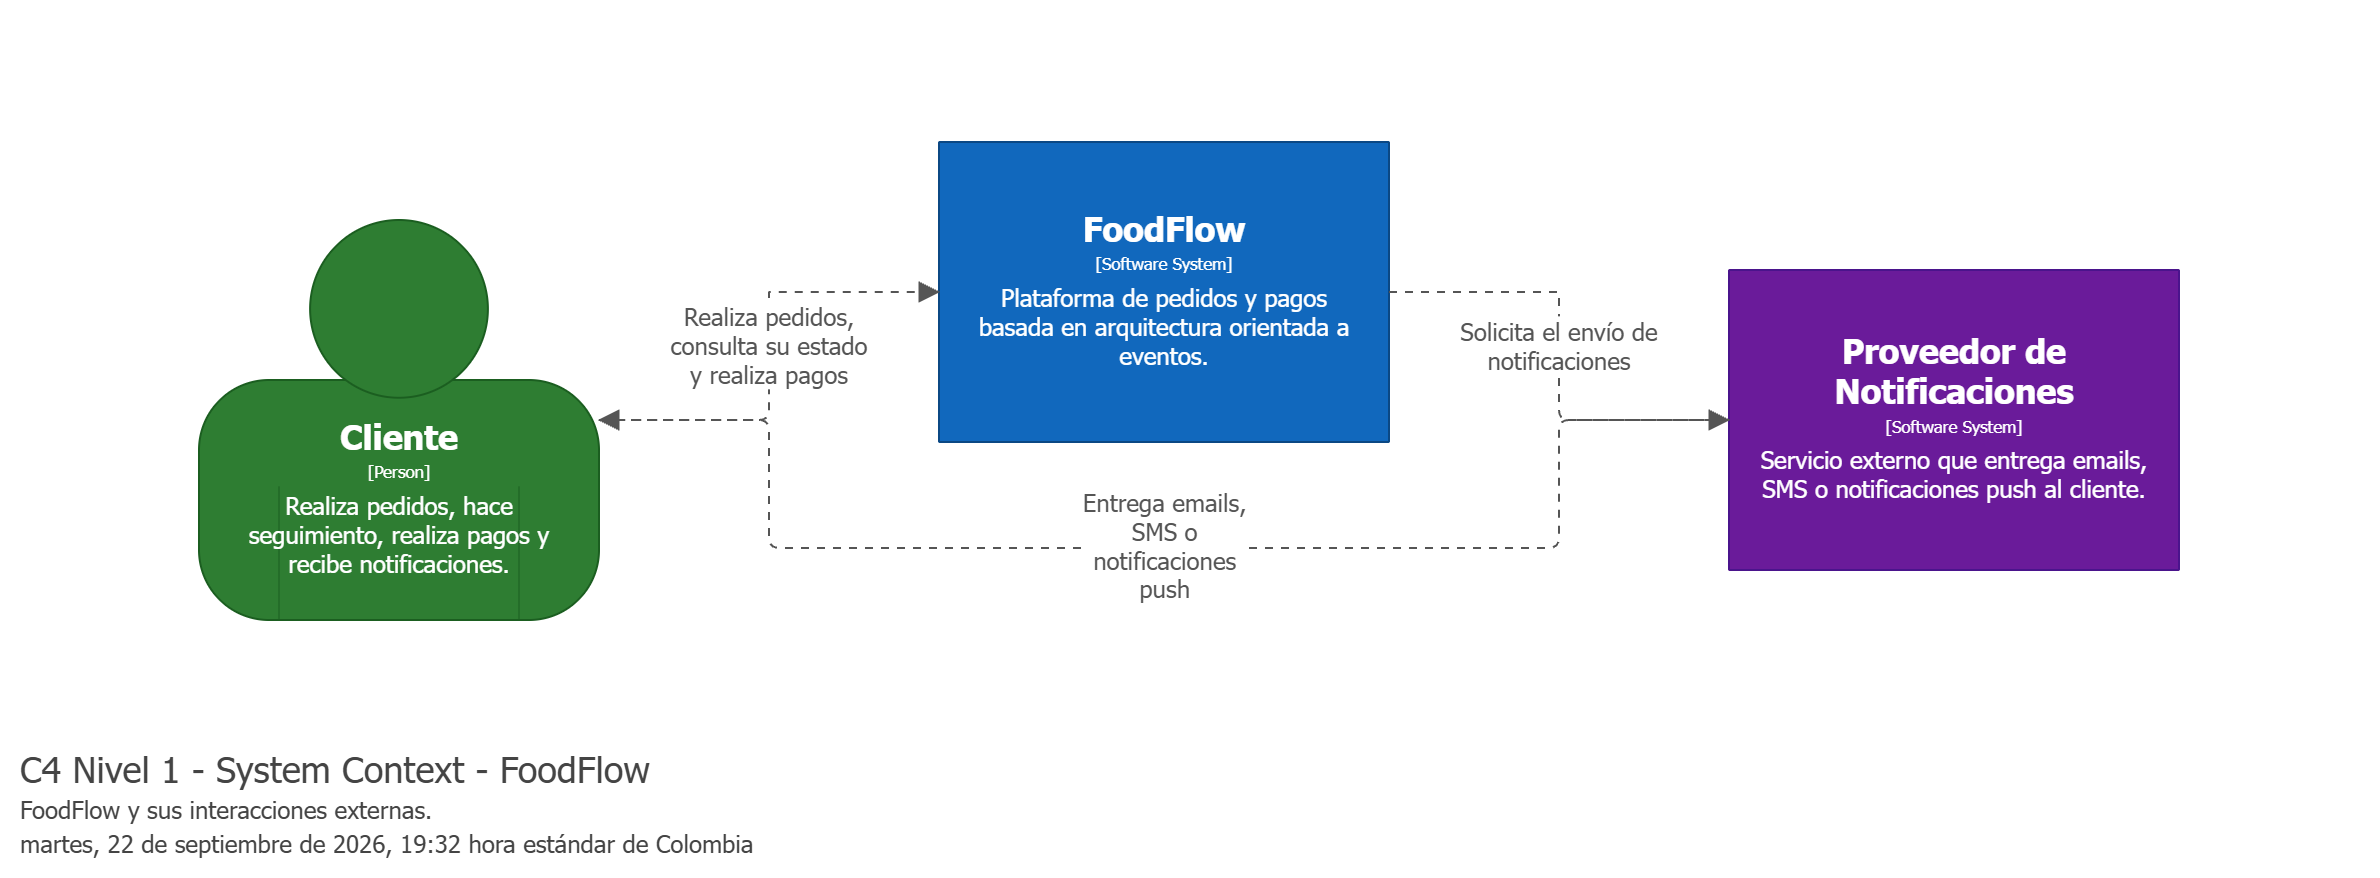
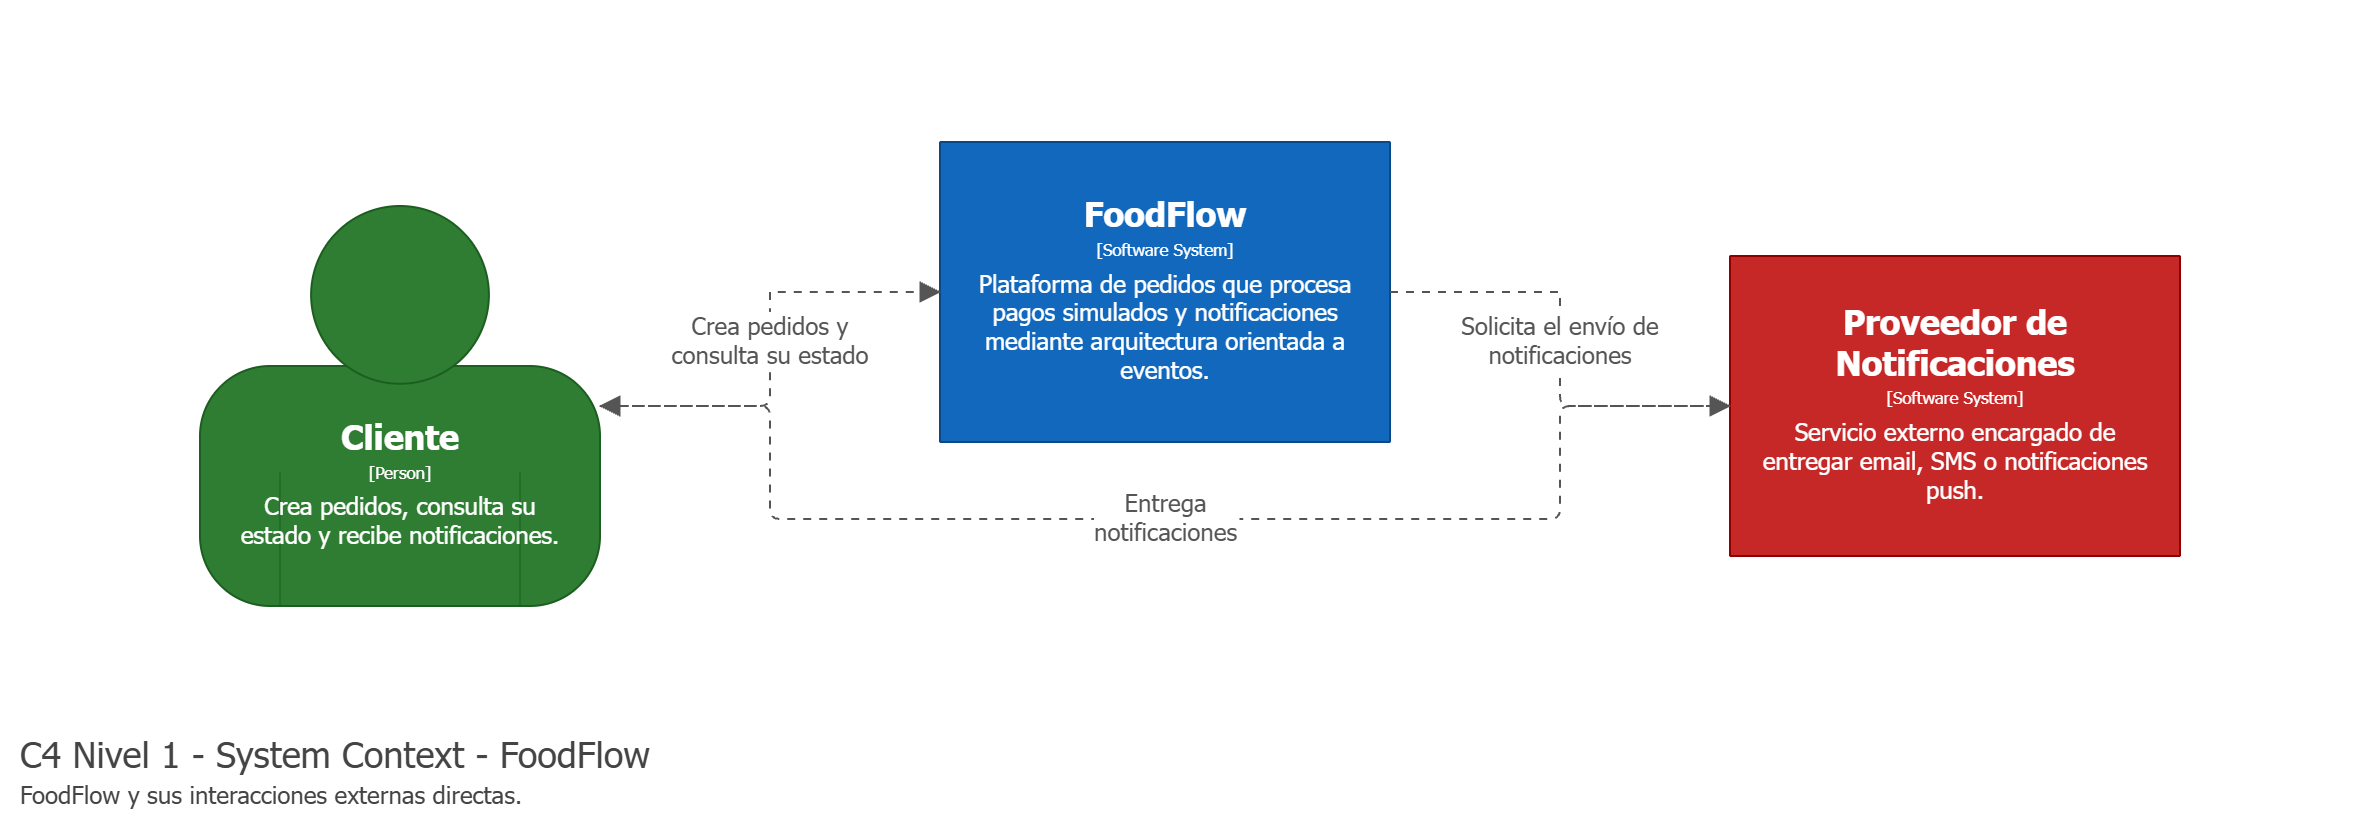
docs(diagramas): reexporta los diagramas con el abanico y añade las gráficas por nivel [HU-704]

diff --git a/docs/informe/propuesta-mercado-laboral-graficas.md b/docs/informe/propuesta-mercado-laboral-graficas.md
@@ -1,0 +1,117 @@
+# Propuesta: gráficas por nivel de experiencia en §2.5
+
+[← Informe técnico](README.md)
+
+> `main.tex` lo edita únicamente Sara (`CLAUDE.md` §1). Esta página **propone** el cambio; no lo aplica.
+
+## Qué se propone
+
+Añadir a la sección **2.5 «Matriz de Mercado Laboral vs Estilo y Stack»** cuatro gráficas que separan la información laboral por nivel de experiencia:
+
+| Figura | Archivo (ya en el repositorio) | Fuente |
+|---|---|---|
+| Vacantes Junior por tecnología | `docs/informe/figuras/vacantes_junior_colombia.png` | `vacantes_junior_colombia.mmd` |
+| Vacantes Senior por tecnología | `docs/informe/figuras/vacantes_senior_colombia.png` | `vacantes_senior_colombia.mmd` |
+| Salario mensual observado, perfiles Junior | `docs/informe/figuras/salarios_junior_colombia.png` | `salarios_junior_colombia.mmd` |
+| Salario mensual observado, perfiles Senior | `docs/informe/figuras/salarios_senior_colombia.png` | `salarios_senior_colombia.mmd` |
+
+Las fuentes están en `docs/wiki/02-arquitectura/diagramas/fuentes/`. Las imágenes están en la ruta relativa a `main.tex`, así que el bloque compila sin tocar `\graphicspath`.
+
+**Dónde insertarlo:** justo después de la figura «Mercado laboral - ofertas publicadas durante el último mes» (`figuras/ofertas-mercado-laboral.png`) y antes del comentario `% 3. DISENO EJEMPLO PRACTICO`.
+
+## Antes de aplicarlo: tres puntos a decidir
+
+1. **Las cifras salariales no tienen `\cite`.** Las notas dicen «vacantes reales publicadas en Colombia durante 2026», pero no identifican las vacantes: Junior 3.0 / 2.75 / 4.4 / 5.5 M y Senior 16.5 / 9.0 / 7.0 / 16.0 M. El criterio 3 de HU-702 exige que ninguna cifra quede sin fuente. Hace falta un `\bibitem` por vacante, como `job-java-81` o `job-kafka-9m`, y citarlo en la nota de cada figura. Los conteos de vacantes sí tienen metodología reproducible (LinkedIn, filtros *Entry level* y *Mid-Senior level*, corte del 30-09-2026), pero conviene citarlos igual que `linkedin-*-jobs`.
+2. **Los salarios Senior no cuadran con la matriz.** La matriz de §2.5 da para Java + Spring Boot «COP 8.1 M/mes; otras ofertas revisadas: aprox. COP 4.5--10 M», y CENISOFT/Fedesoft «Senior Tipo I COP 6.7--9.1 M/mes». La gráfica Senior pone Spring Boot en **16.5 M** y Kafka en **16.0 M**. Puede ser correcto con otra muestra, pero el texto tendría que explicar la diferencia o la matriz y la gráfica se contradicen.
+3. **La gráfica salarial anterior sigue en el informe.** `figuras/mercado-laboral.png` todavía muestra Kafka en 9.5 M; la fuente ya se corrigió a 9.0 M, que es el tope publicado de `job-kafka-9m`. Hay dos opciones: reexportarla desde `mercado-laboral.mmd` o retirarla si las cuatro gráficas nuevas la sustituyen.
+
+## Bloque LaTeX propuesto
+
+```latex
+\subsubsection{Mercado laboral por nivel de experiencia}
+
+Las siguientes gráficas separan la información laboral observada por nivel de experiencia y por tecnología. Para las vacantes se utilizan los filtros de experiencia de LinkedIn Colombia; para los salarios, valores observados en vacantes reales publicadas en Colombia durante 2026. En todos los casos las cifras deben interpretarse como evidencia observacional y no como estadísticas oficiales del mercado laboral colombiano.
+
+\begin{figure}[H]
+    \centering
+    \includegraphics[width=0.88\textwidth]{figuras/vacantes_junior_colombia.png}
+    \caption{Vacantes Junior por tecnología en Colombia durante el último mes.}
+    \label{fig:vacantes-junior}
+
+    \vspace{0.2cm}
+    \begin{minipage}{0.92\textwidth}
+        \footnotesize
+        \textit{Fuente y metodología:} resultados públicos de búsqueda en LinkedIn Colombia, con corte al 30 de septiembre de 2026 y publicaciones del último mes. Para el nivel Junior se utilizó el filtro de experiencia \textit{Entry level}. Los valores corresponden a resultados de búsqueda por palabra clave y no representan una estadística oficial de empleo ni garantizan que todas las publicaciones sean vacantes únicas.
+    \end{minipage}
+\end{figure}
+
+\begin{figure}[H]
+    \centering
+    \includegraphics[width=0.88\textwidth]{figuras/vacantes_senior_colombia.png}
+    \caption{Vacantes Senior por tecnología en Colombia durante el último mes.}
+    \label{fig:vacantes-senior}
+
+    \vspace{0.2cm}
+    \begin{minipage}{0.92\textwidth}
+        \footnotesize
+        \textit{Fuente y metodología:} resultados públicos de búsqueda en LinkedIn Colombia, con corte al 30 de septiembre de 2026 y publicaciones del último mes. Para aproximar el nivel Senior se utilizó el filtro \textit{Mid-Senior level}; la gráfica representa la presencia de cada tecnología en publicaciones orientadas a experiencia media y alta, no un conteo oficial de puestos Senior únicos.
+    \end{minipage}
+\end{figure}
+
+\begin{figure}[H]
+    \centering
+    \includegraphics[width=0.88\textwidth]{figuras/salarios_junior_colombia.png}
+    \caption{Salario mensual observado en vacantes Junior asociadas al stack tecnológico en Colombia.}
+    \label{fig:salarios-junior}
+
+    \vspace{0.2cm}
+    \begin{minipage}{0.92\textwidth}
+        \footnotesize
+        \textit{Fuente y metodología:} valores observados en vacantes reales publicadas en Colombia durante 2026 que incluyen las tecnologías analizadas entre sus requisitos % TODO: \cite{...} de cada vacante
+        . No representan el salario promedio de cada tecnología: la remuneración corresponde al cargo completo. Cuando la publicación presentó un rango se utilizó su punto medio, únicamente para la representación gráfica. La vacante de Kafka estaba clasificada como Junior--Mid, por lo que su valor es una referencia observada y no un promedio Junior del mercado.
+    \end{minipage}
+\end{figure}
+
+\begin{figure}[H]
+    \centering
+    \includegraphics[width=0.88\textwidth]{figuras/salarios_senior_colombia.png}
+    \caption{Salario mensual observado en vacantes Senior asociadas al stack tecnológico en Colombia.}
+    \label{fig:salarios-senior}
+
+    \vspace{0.2cm}
+    \begin{minipage}{0.92\textwidth}
+        \footnotesize
+        \textit{Fuente y metodología:} valores observados en vacantes reales publicadas en Colombia durante 2026 para perfiles de experiencia avanzada que incluyen Spring Boot, Angular, PostgreSQL o Kafka en su stack % TODO: \cite{...} de cada vacante
+        . No deben interpretarse como salarios promedio por tecnología, sino como referencias de cargos reales asociados a esas herramientas. Cuando la publicación expresó un intervalo se utilizó su punto medio, únicamente para facilitar la comparación visual.
+    \end{minipage}
+\end{figure}
+
+\textbf{Interpretación por nivel.} Las gráficas de vacantes reflejan la \textbf{presencia de cada tecnología en publicaciones laborales}, mientras que las salariales muestran \textbf{remuneraciones observadas en cargos reales asociados al stack}; por eso una mayor cantidad de ofertas no implica un salario superior. PostgreSQL aparece como requisito transversal en perfiles backend, de datos, DevOps y full stack, mientras que Kafka se concentra en un subconjunto menor de posiciones orientadas a sistemas distribuidos, integración y arquitecturas basadas en eventos. Experiencia, nivel de inglés, modalidad de contratación, tamaño de la organización y combinación de tecnologías pueden producir diferencias significativas entre ofertas.
+
+\begin{table}[H]
+\centering
+\caption{Criterio utilizado para clasificar la información laboral por nivel.}
+\label{tab:criterios-mercado-laboral}
+\small
+\renewcommand{\arraystretch}{1.25}
+\begin{tabular}{p{3.0cm} p{4.3cm} p{6.4cm}}
+\toprule
+\textbf{Variable} & \textbf{Criterio utilizado} & \textbf{Interpretación} \\
+\midrule
+Vacantes Junior & LinkedIn: \textit{Entry level} & Publicaciones asociadas a perfiles de entrada o menor experiencia. \\
+Vacantes Senior & LinkedIn: \textit{Mid-Senior level} & Publicaciones asociadas a perfiles con experiencia media o avanzada. \\
+Salarios Junior & Vacantes reales publicadas en Colombia durante 2026 & Salarios observados; no corresponden a un promedio nacional por tecnología. \\
+Salarios Senior & Vacantes reales publicadas en Colombia durante 2026 & Salarios observados en roles avanzados asociados a las tecnologías analizadas. \\
+\bottomrule
+\end{tabular}
+\end{table}
+```
+
+### Cambios respecto al borrador original
+
+- `\subsection*` pasa a un único `\subsubsection` numerado dentro de §2.5, y la «Interpretación» y la tabla quedan como párrafo y tabla de esa subsubsección.
+- Rutas `figuras/...` para que `\includegraphics` las encuentre desde `docs/informe/`.
+- Se quitan las líneas «Archivo de imagen: …», que eran notas de trabajo.
+- Anchura de las figuras a `0.88\textwidth`, como la gráfica salarial que ya tiene §2.5.
+- Del preámbulo del borrador solo se necesitan `float`, `booktabs`, `array` y `graphicx`, que `main.tex` ya carga; `caption` no hace falta porque el bloque no usa `\captionsetup`.
+- Se marcan con `% TODO` los dos lugares donde faltan las citas de las vacantes (punto 1).

diff --git a/docs/wiki/02-arquitectura/diagramas/README.md b/docs/wiki/02-arquitectura/diagramas/README.md
@@ -2,7 +2,7 @@
 
 [← Índice de la wiki](../../Home.md)
 
-Las **imágenes exportadas** del informe técnico viven aquí, versionadas, y las páginas de la wiki las muestran donde hablan de arquitectura. Las **fuentes** (`workspace.dsl`, `.mmd`, `.puml`, `.dbml`) las versiona HU-704.
+Las **imágenes exportadas** del informe técnico viven aquí, versionadas, y las páginas de la wiki las muestran donde hablan de arquitectura. Las **fuentes** están en [`fuentes/`](fuentes/) (HU-704). Las imágenes que cita `main.tex` se copian además a `docs/informe/diagramas/` y `docs/informe/figuras/`, que es donde las busca el informe.
 
 | Imagen | Vista | Dónde se muestra en la wiki |
 |---|---|---|
@@ -12,23 +12,27 @@ Las **imágenes exportadas** del informe técnico viven aquí, versionadas, y la
 | `c4-c3-order-service.png` | C3 Componentes de Order Service | [Convenciones](../../04-implementacion/convenciones.md) |
 | `c4-code-order-application-service.png` | Nivel de código | [Convenciones](../../04-implementacion/convenciones.md) |
 | `c4-dynamic-order-flow.png` | Vista dinámica del flujo | [Estilo y flujo](../estilo-y-flujo.md) |
-| `c4-deployment-development.png` | Despliegue en desarrollo | [Runbook de la demostración](../../04-implementacion/runbook-demo.md) |
+| `c4-deployment-development.png` | Despliegue en desarrollo (vertical; el que usa el informe) | [Runbook de la demostración](../../04-implementacion/runbook-demo.md) |
+| `c4-deployment-development-horizontal.png` | Despliegue en desarrollo, de izquierda a derecha | Solo para la presentación de la sustentación; el informe no lo usa |
 | `system-landscape-foodflow.png` | System Landscape | [Visión y alcance](../../01-producto/vision-y-alcance.md) |
 | `modelo-datos-foodflow.png` | Modelo de datos | [Persistencia](../../03-contratos/persistencia.md) |
 
 Una imagen que contradiga al informe se corrige regenerándola desde su fuente, nunca editando la wiki para que cuadre con la imagen.
 
-| Diagrama | Herramienta | Fuente esperada |
+| Diagrama | Herramienta | Fuente |
 |---|---|---|
-| C1 Contexto, C2 Contenedores, C3 Componentes (Order Service), System Landscape | Structurizr DSL | `workspace.dsl` (una sola fuente para las cuatro vistas) |
-| Dinámico (flujo principal) | Mermaid | `foodflow-dinamico.mmd` |
-| Despliegue | PlantUML | `foodflow-deployment.puml` |
-| Modelo de datos | DBML (dbdiagram.io) | `foodflow-modelo-datos.dbml` |
-| HLD | A definir | Ver informe |
+| C1, C2, C3 (Order Service), System Landscape, vista dinámica y despliegue (vertical y horizontal) | Structurizr DSL | [`foodflow-structurizr-v9.dsl`](fuentes/foodflow-structurizr-v9.dsl) (una sola fuente; vistas `Dynamic_OrderFlow`, `Deployment_Development` y `Deployment_Development_Horizontal`) |
+| Nivel de código de Order Service | PlantUML | [`order-service-code-v3.puml`](fuentes/order-service-code-v3.puml) |
+| Modelo de datos | DBML (dbdiagram.io) | [`foodflow-modelo-datos-v9.dbml`](fuentes/foodflow-modelo-datos-v9.dbml) |
+| Gráficas de mercado laboral | Mermaid (`xychart-beta`) | `mercado-laboral.mmd`, `ofertas-mercado-laboral.mmd`, `vacantes_junior_colombia.mmd`, `vacantes_senior_colombia.mmd`, `salarios_junior_colombia.mmd` y `salarios_senior_colombia.mmd`, en [`fuentes/`](fuentes/) |
+| HLD | Elaborado a mano | Sin fuente versionada, por decisión del equipo |
+
+La vista dinámica y el despliegue salen de Structurizr, como indican las leyendas del informe, y no de Mermaid o PlantUML como decía la primera versión de esta tabla.
 
 ## Convenciones
 
 - Los elementos **fuera de alcance** (Backoffice, Analítica) usan borde punteado.
 - Los diagramas usan `OrderStatusChanged` (no `OrderUpdated`) y reflejan `PAY-OK` / `PAY-FAIL`.
 - Ninguna base de datos se conecta a Kafka en ningún diagrama.
+- Notification Service consume `PaymentApproved`/`PaymentRejected` en paralelo con Order Service (abanico), no `OrderStatusChanged`.
 - Cada cambio de diseño que altere un diagrama actualiza su fuente en el mismo PR.
